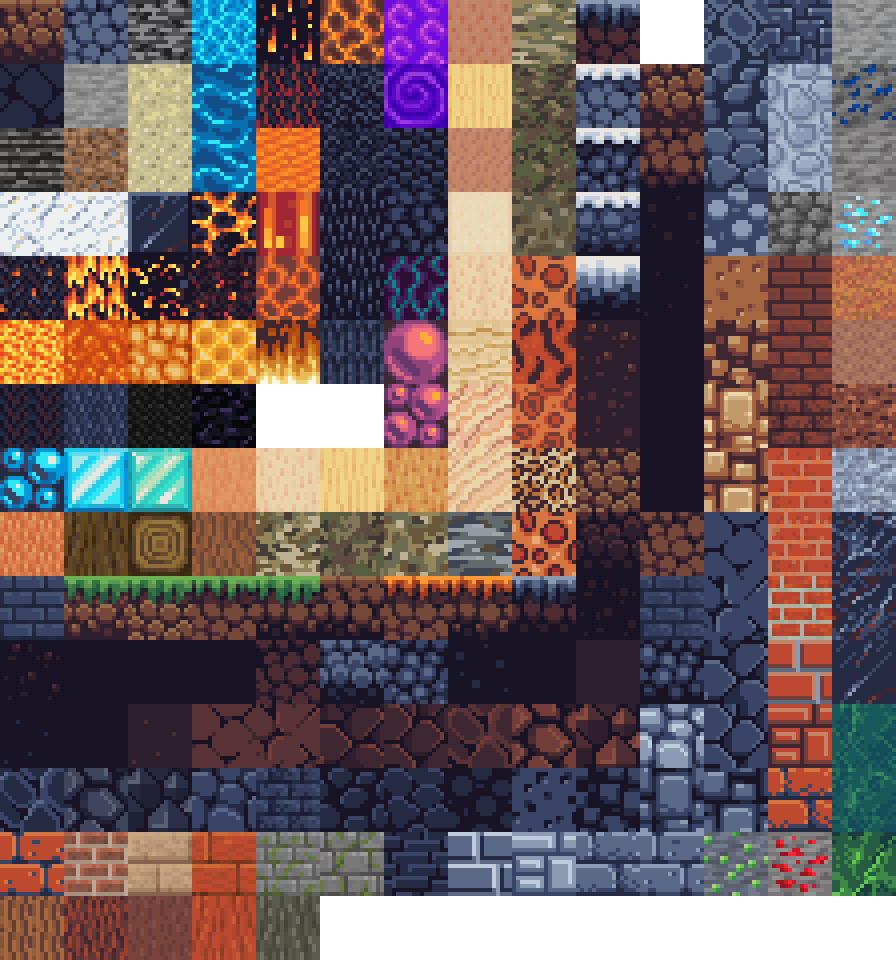
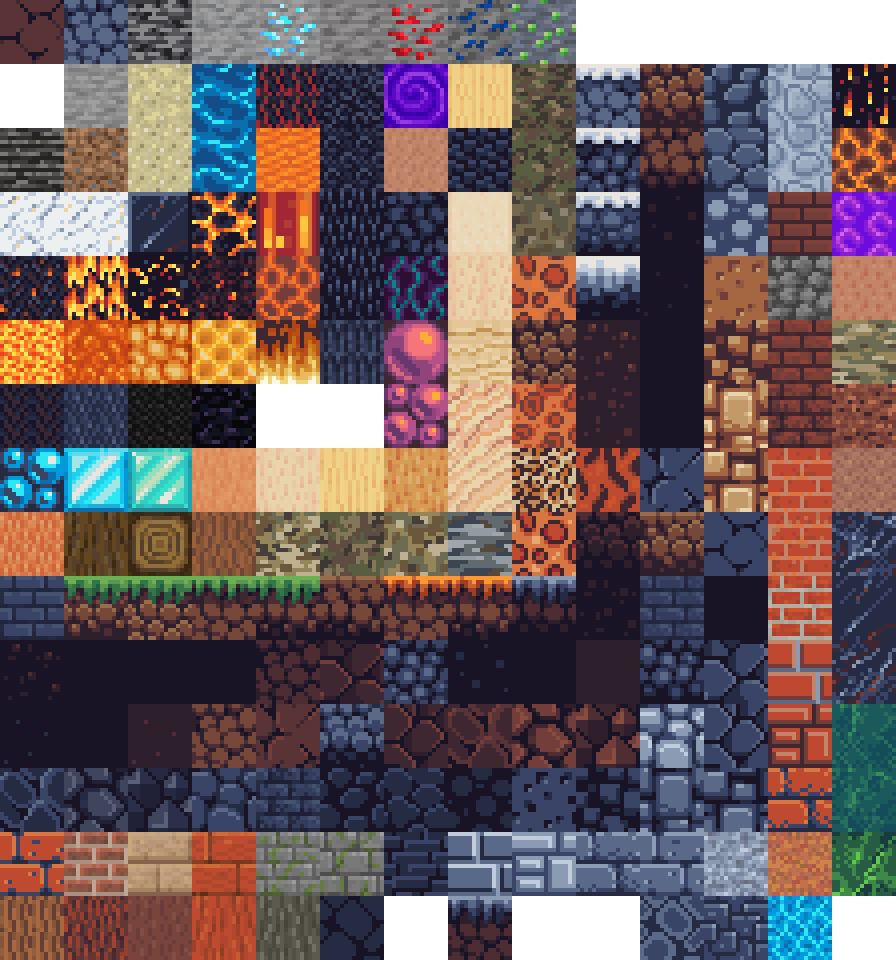
feat: procedural terrain generation

diff --git a/src/game/map/Mine.ts b/src/game/map/Mine.ts
@@ -1,14 +1,15 @@
 import { BlockType, SelectionType, PlayerSelectedTile } from "../../utils/types";
+import TerrainGenerator from "./scripts/TerrainGenerator";
+import SelectionMap from "./SelectionMap";
 
 export default class Mine {
     private scene: Phaser.Scene;
     private map: Phaser.Tilemaps.Tilemap;
     private groundLayer: Phaser.Tilemaps.TilemapLayer; 
-    private selectionLayer: Phaser.Tilemaps.TilemapLayer; 
     private worldWidthTiles: number;
     private worldHeightTiles: number;
 
-    private selectedTiles: { [key: string]: PlayerSelectedTile | null } = {};
+    private selectionMap: SelectionMap;
 
     constructor(scene: Phaser.Scene) {
         this.scene = scene;
@@ -23,39 +24,52 @@ export default class Mine {
         });
 
         const tileset = this.map.addTilesetImage('ground_tiles', 'ground_tiles');
-
+        
         this.groundLayer = this.map.createBlankLayer('groundLayer', tileset!, 0, 0)!;
-        this.groundLayer.setCollision([BlockType.BT_DIRT, BlockType.BT_STONE, BlockType.BT_BEDROCK]);
+        for (let key in BlockType) {
+            if (key !== 'BT_EMPTY') {
+                this.groundLayer.setCollision(BlockType[key as keyof typeof BlockType]);
+            }
+        }
 
-        const selectionTileset = this.map.addTilesetImage('selection_tiles', 'selection_tiles');
-        this.selectionLayer = this.map.createBlankLayer('selectionLayer', selectionTileset!, 0, 0)!;
-        // this.selectionLayer.fill(SelectionType.ST_BLOCK_WO);
+        this.selectionMap = new SelectionMap(scene, this.map);
     }
 
-    private _generateChunk(chunkWidthTiles: number, chunkHeightTiles: number, startY: number): number[][] {
-        const chunk: number[][] = [];
+    private generateChunk(chunkWidthTiles: number, chunkHeightTiles: number, bottomLayer: BlockType, topLayer: BlockType, startY: number): number[][] {
+        let chunk: number[][];
 
-        for (let y = startY; y < chunkHeightTiles + startY; y++) {
-            const row: number[] = [];
-            for (let x = 0; x < chunkWidthTiles; x++) {
-                let blockType: BlockType;
+        chunk = TerrainGenerator.randomWalkSmooth(
+            chunkWidthTiles, // width
+            chunkHeightTiles, // height
+            10, // maxStartHeight
+            6, // minStartHeight
+            bottomLayer, // bottomLayer
+            topLayer, // topLayer
+            2, // minSectionSize
+            this.scene.sys.game.config.seed[0] as string // seed
+        );
 
-                // TODO: Make this less messy (cumulative heights)
-                if (y < 10) {
-                    blockType = BlockType.BT_EMPTY;
-                } else if (y < 15) {
-                    blockType = BlockType.BT_DIRT;
-                } else if (y < 20) {
-                    blockType = BlockType.BT_STONE;
-                } else {
-                    blockType = BlockType.BT_BEDROCK;
-                }
-                row.push(blockType);
-            }
-            chunk.push(row);
+        // for (let y = startY; y < chunkHeightTiles + startY; y++) {
+        //     const row: number[] = [];
+        //     for (let x = 0; x < chunkWidthTiles; x++) {
+        //         let blockType: BlockType;
 
-            // console.log(`Generated row ${y - startY}: ${row.join(', ')}`);
-        }
+        //         // TODO: Make this less messy (cumulative heights)
+        //         if (y < 10) {
+        //             blockType = BlockType.BT_EMPTY;
+        //         } else if (y < 15) {
+        //             blockType = BlockType.BT_DIRT;
+        //         } else if (y < 20) {
+        //             blockType = BlockType.BT_COBBLED_STONE;
+        //         } else {
+        //             blockType = BlockType.BT_BEDROCK;
+        //         }
+        //         row.push(blockType);
+        //     }
+        //     chunk.push(row);
+
+        //     // console.log(`Generated row ${y - startY}: ${row.join(', ')}`);
+        // }
 
         return chunk;
     }
@@ -74,38 +88,33 @@ export default class Mine {
         for (let x = startX; x <= endX; x++) {
             for (let y = startY; y <= endY; y++) {
                 // console.log(`Generating chunk at (${x}, ${y})`);
-                const chunk_data = this._generateChunk(chunkWidthTiles, chunkHeightTiles, y * chunkHeightTiles);
+                const bottomLayer = BlockType.BT_DIRT;
+                const topLayer = BlockType.BT_EMPTY;
+                const chunk_data = this.generateChunk(chunkWidthTiles, chunkHeightTiles, bottomLayer, topLayer, y * chunkHeightTiles);
                 this.map.putTilesAt(chunk_data, x * chunkWidthTiles, y * chunkHeightTiles, false, this.groundLayer);
             }
         }
     }
 
     selectTile(tileX: number, tileY: number, playerId: string): boolean {
-        const selectedTile = this.selectedTiles[playerId];
-
-        if (selectedTile && this.selectionLayer.getTileAt(selectedTile.x, selectedTile.y)) {
-            this.selectionLayer.removeTileAt(selectedTile.x, selectedTile.y);
-        }
+        this.selectionMap.deselectTile(playerId);
 
         const tile = this.groundLayer.getTileAt(tileX, tileY);
         if (!tile || tile.index === BlockType.BT_EMPTY) {
-            this.selectedTiles[playerId] = null;
             return false; 
         }
 
-        this.selectedTiles[playerId] = {
+        this.selectionMap.setSelectedTile({
             x: tileX,
             y: tileY,
-            type: tile.index as BlockType
-        };
-
-        this.selectionLayer.putTileAt(SelectionType.ST_BLOCK_WO, tileX, tileY);
+            type: tile.index
+        }, playerId);
 
         return true;
     }
     
     digTile(playerId: string): void {
-        const selectedTile = this.selectedTiles[playerId];
+        const selectedTile = this.selectionMap.getSelectedTile(playerId);
         if (!selectedTile) {
             console.warn(`Player ${playerId} tried to dig but had no tiles selected.`);
             return;
@@ -117,8 +126,7 @@ export default class Mine {
         const tile = this.groundLayer.getTileAt(tileX, tileY);
         if (tile && tile.index !== BlockType.BT_EMPTY) {
             this.groundLayer.removeTileAt(tileX, tileY);
-            this.selectionLayer.removeTileAt(tileX, tileY);
-            this.selectedTiles[playerId] = null;
+            this.selectionMap.deselectTile(playerId);
         }
     }
 
@@ -132,10 +140,6 @@ export default class Mine {
 
     getLayer(): Phaser.Tilemaps.TilemapLayer {
         return this.groundLayer; 
-    }
-
-    getSelectionLayer(): Phaser.Tilemaps.TilemapLayer {
-        return this.selectionLayer; 
     }
 
     getMap(): Phaser.Tilemaps.Tilemap {

diff --git a/src/game/map/scripts/TerrainGenerator.ts b/src/game/map/scripts/TerrainGenerator.ts
@@ -1,0 +1,67 @@
+import Random from "../../../utils/random";
+import { BlockType } from "../../../utils/types";
+
+export default abstract class TerrainGenerator {
+    /**
+     * Generates a random walk terrain map.
+     * @param width Width of the terrain map.
+     * @param height Height of the terrain map.
+     * @param maxStartHeight Maximum starting height for the bottom layer.
+     * @param minStartHeight Minimum starting height for the bottom layer.
+     * @param bottomLayer Block type for the bottom layer.
+     * @param topLayer Block type for the top layer.
+     * @param minSectionSize Minimum size of each horizontal section in the terrain.
+     * @param seed Random seed for generating the terrain.
+     * @returns A 2D array of BlockType representing the terrain map.
+     */
+    public static randomWalkSmooth(
+        width: number,
+        height: number,
+        maxStartHeight: number = height,
+        minStartHeight: number = 0,
+        bottomLayer: BlockType = BlockType.BT_DIRT,
+        topLayer: BlockType = BlockType.BT_EMPTY,
+        minSectionSize: number,
+        seed: string
+    ): BlockType[][] {
+        const dataWidth = width;
+        const dataHeight = height;
+
+        let data = Array.from({ length: dataWidth }, () => new Array(dataHeight).fill(bottomLayer));
+
+        const rand = new Random(seed);
+
+        let lastHeight: integer = rand.range(minStartHeight, maxStartHeight + 1);
+
+        //Used to determine which direction to go
+        let nextMove = 0;
+        //Used to keep track of the current sections width
+        let sectionWidth = 0;
+
+        //Work through the array width
+        for (let x = 0; x < dataWidth; x++)
+        {
+            nextMove = rand.range(0,2); // 0 = down, 1 = up
+
+            if (nextMove == 0 && lastHeight > 0 && sectionWidth > minSectionSize)
+            {
+                lastHeight--;
+                sectionWidth = 0;
+            }
+            else if (nextMove == 1 && lastHeight < dataHeight && sectionWidth > minSectionSize)
+            {
+                lastHeight++;
+                sectionWidth = 0;
+            }
+
+            sectionWidth++;
+
+            for (let y = lastHeight; y >= 0; y--)
+                {
+                    data[y][x] = topLayer;
+                }
+            }
+
+            return data;
+    }
+}

diff --git a/src/game/map/SelectionMap.ts b/src/game/map/SelectionMap.ts
@@ -1,0 +1,45 @@
+import { BlockType, PlayerSelectedTile, SelectionType } from "../../utils/types";
+
+export default class SelectionMap {
+        private selectionLayer: Phaser.Tilemaps.TilemapLayer; 
+        private selectedTiles: { [key: string]: PlayerSelectedTile | null } = {};
+
+        constructor(scene: Phaser.Scene, map: Phaser.Tilemaps.Tilemap) {
+            const selectionTileset = map.addTilesetImage('selection_tiles', 'selection_tiles');
+            this.selectionLayer = map.createBlankLayer('selectionLayer', selectionTileset!, 0, 0)!;
+            // this.selectionLayer.fill(SelectionType.ST_BLOCK_WO);
+        }
+
+        setSelectedTile(tile: PlayerSelectedTile | null, playerId: string): boolean {
+            if (!tile) return false;
+
+            const selectedTile = this.selectedTiles[playerId];
+
+            if (selectedTile && this.selectionLayer.getTileAt(selectedTile.x, selectedTile.y)) {
+                this.selectionLayer.removeTileAt(selectedTile.x, selectedTile.y);
+            }
+
+            this.selectedTiles[playerId] = null;
+
+            this.selectedTiles[playerId] = {
+                x: tile.x,
+                y: tile.y,
+                type: tile.type
+            };
+
+            this.selectionLayer.putTileAt(SelectionType.ST_BLOCK_WO, tile.x, tile.y);
+
+            return true;
+         }
+
+        deselectTile(playerId: string): void {
+            if (this.selectedTiles[playerId]) {
+                this.selectionLayer.removeTileAt(this.selectedTiles[playerId]!.x, this.selectedTiles[playerId]!.y);
+                this.selectedTiles[playerId] = null;
+            }
+        }
+
+        getSelectedTile(playerId: string): PlayerSelectedTile | null {
+            return this.selectedTiles[playerId] || null;
+        }
+}

diff --git a/src/utils/Random.ts b/src/utils/Random.ts
@@ -1,0 +1,42 @@
+export default class Random {
+    private getRandom: () => number;
+
+    private static hashString(seed: string): number[] {
+        // crb128
+        let h1 = 1779033703, h2 = 3144134277,
+        h3 = 1013904242, h4 = 2773480762;
+        for (let i = 0, k; i < seed.length; i++) {
+            k = seed.charCodeAt(i);
+            h1 = h2 ^ Math.imul(h1 ^ k, 597399067);
+            h2 = h3 ^ Math.imul(h2 ^ k, 2869860233);
+            h3 = h4 ^ Math.imul(h3 ^ k, 951274213);
+            h4 = h1 ^ Math.imul(h4 ^ k, 2716044179);
+        }
+        h1 = Math.imul(h3 ^ (h1 >>> 18), 597399067);
+        h2 = Math.imul(h4 ^ (h2 >>> 22), 2869860233);
+        h3 = Math.imul(h1 ^ (h3 >>> 17), 951274213);
+        h4 = Math.imul(h2 ^ (h4 >>> 19), 2716044179);
+        h1 ^= (h2 ^ h3 ^ h4), h2 ^= h1, h3 ^= h1, h4 ^= h1;
+        return [h1>>>0, h2>>>0, h3>>>0, h4>>>0];
+    }
+
+    constructor(seed: string) {
+        let [a, b, c, d] = Random.hashString(seed);
+
+        // sfc32
+        this.getRandom = function() {
+            a |= 0; b |= 0; c |= 0; d |= 0;
+            let t = (a + b | 0) + d | 0;
+            d = d + 1 | 0;
+            a = b ^ b >>> 9;
+            b = c + (c << 3) | 0;
+            c = (c << 21 | c >>> 11);
+            c = c + t | 0;
+            return (t >>> 0) / 4294967296;
+        }
+    }
+
+    range(min: number, max: number): number {
+        return Math.floor(this.getRandom() * (max - min)) + min;
+    }
+}

diff --git a/src/game/scenes/Preloader.ts b/src/game/scenes/Preloader.ts
@@ -47,13 +47,12 @@ export class Preloader extends Scene
             frames: this.anims.generateFrameNames('idle', { prefix: 'idle', start: 1, end: 4 }),
             frameRate: 3,
             repeat: -1,
-            
         });
 
         this.anims.create({
             key: 'playerRun',
-            frames: this.anims.generateFrameNames('run', { prefix: 'run', start: 1, end: 7 }),
-            frameRate: 12,
+            frames: this.anims.generateFrameNames('run', { prefix: 'run', start: 1, end: 8 }),
+            frameRate: 6,
             repeat: -1
         });
 

diff --git a/src/game/gameobjects/player/states/PlayerRunState.ts b/src/game/gameobjects/player/states/PlayerRunState.ts
@@ -17,8 +17,10 @@ export default class PlayerRunState extends PlayerState {
     update() {
         if (this.keys.left.isDown) {
             this.sprite.setVelocityX(-this.speed);
+            this.sprite.setFlipX(true);
         } else if (this.keys.right.isDown) {
             this.sprite.setVelocityX(this.speed);
+            this.sprite.setFlipX(false);
         } else {
             this.sprite.setVelocityX(0);
             this.controller.setState(PlayerStateName.IDLE);

diff --git a/src/game/gameobjects/player/Player.ts b/src/game/gameobjects/player/Player.ts
@@ -28,7 +28,7 @@ export default class Player {
         this.sprite.setData('id', this.player_key);
 
         this.sprite.data.set('speed', 300);
-        this.sprite.data.set('jumpSpeed', 400);
+        this.sprite.data.set('jumpSpeed', 200);
 
         this._controller = new PlayerController(this.sprite, PlayerStateName.IDLE, this.control_keys, this.scene);
         this._controller.getState().enter();

diff --git a/src/utils/types.ts b/src/utils/types.ts
@@ -12,8 +12,14 @@ export interface ControlKeys {
 export enum BlockType {
     BT_EMPTY = -1,
     BT_DIRT,
-    BT_STONE,
+    BT_COBBLED_STONE, // legally distinct
     BT_BEDROCK,
+    BT_LIGHT_STONE,
+    BT_DIAMOND,
+    BT_DARK_STONE,
+    BT_RUBY,
+    BT_SODALITE,
+    BT_BERYL
 }
 
 export enum SelectionType {
